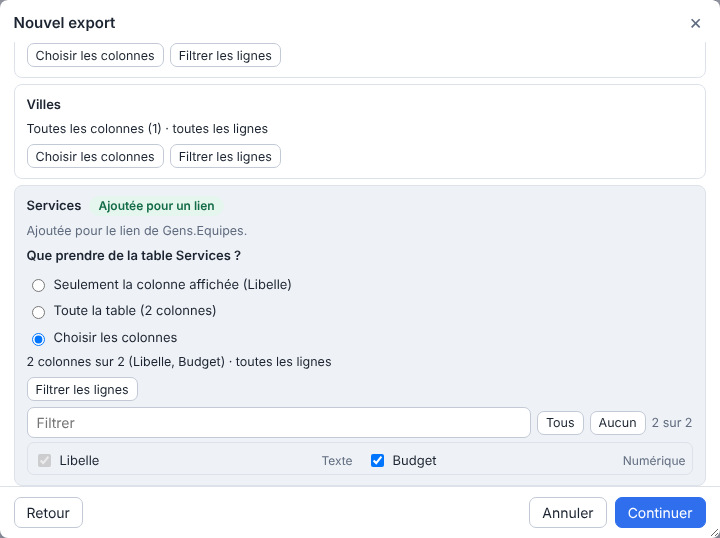
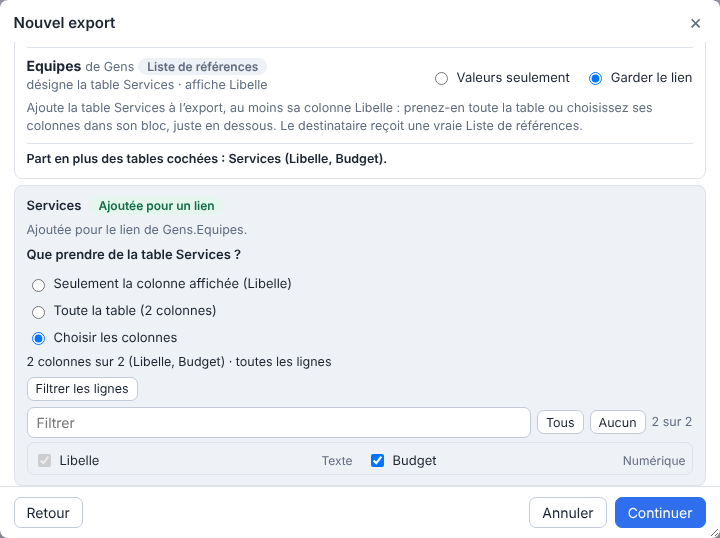
V0.29.1 : « Garder le lien » ouvre le panneau de la table ajoutée sous les références, libellé « futures colonnes »
Étape Colonnes de l'assistant d'export : le bloc « Références entre tables » vient maintenant avant les blocs « Ajoutée pour un lien »,
donc le panneau qui s'ouvre en choisissant « Garder le lien » apparaît sous la ligne cliquée et non au-dessus. Le texte de la note
dit « juste en dessous ». La case « Envoyer aussi les futures colonnes que j'ajouterai à ces tables » change de libellé (fr, en, docs/04).
Captures 29 et 29b refaites. Moteur inchangé (5.0.0).

Claude-Session: https://claude.ai/code/session_01TbSoW2GtQvMaUgQGCoyAc1

diff --git a/js/source/export-wizard.js b/js/source/export-wizard.js
@@ -221,7 +221,8 @@ function refRow(ctx, offer, onPick) {
 
 // Colonnes Référence et Liste de références (voir links.js) : pour chacune, n'envoyer que le texte affiché ou garder le lien (la table
 // visée s'ajoute alors à l'export : sa colonne affichée seule, toute la table ou des colonnes au choix). Hors Échange, où les colonnes vont dans les deux sens par leur
-// nom. `onTables` reçoit les tables de l'export à chaque changement. Rend les nœuds (tables ajoutées, puis bloc des choix).
+// nom. `onTables` reçoit les tables de l'export à chaque changement. Rend les nœuds : le bloc des choix, puis dessous les tables ajoutées
+// (le choix « Garder le lien » ouvre son panneau sous la ligne qu'on vient de cliquer, pas au-dessus).
 function linkSection(ctx, schema, onTables) {
   if (ctx.exp?.echange) return null;
   const pulledSlot = el('div', { class: 'form' });
@@ -254,7 +255,7 @@ function linkSection(ctx, schema, onTables) {
   }
   ctx.refresh = refresh;
   refresh();
-  return [pulledSlot, refsSlot];
+  return [refsSlot, pulledSlot];
 }
 
 // Case « Envoyer aussi les colonnes que j'ajouterai » (voir new-columns.js) : décochée d'emblée, telle que l'export l'est pour un export

diff --git a/js/config.js b/js/config.js
@@ -16,4 +16,4 @@ export const widgetUrl = () => (servedAt() === BETA_URL ? BETA_URL : WIDGET_URL)
 // D'où cette copie est servie, pour le diagnostic.
 export const servedFrom = () => ({ [BETA_URL]: 'bêta', [WIDGET_URL]: 'officielle' }[servedAt()] || servedAt());
 
-export const VERSION = '0.29.0';
+export const VERSION = '0.29.1';

diff --git a/CLAUDE.md b/CLAUDE.md
@@ -375,7 +375,18 @@ catalogue), syncPlus seul se comporte comme avant, tout est dans `js/engine/` (m
   `engine-fake.mjs`, préfixe `Gfs_`) ; les autres essais n'ont changé que leurs chemins d'import (`js/logic` devient
   `js/engine/logic`), l'e2e que les chemins des fichiers servis.
 
-## État : V0.29.0 (13 novembre 2026)
+## État : V0.29.1 (16 novembre 2026)
+
+V0.29.1 (Antoine, 16 novembre, en préparant un export avec une colonne Référence : « si on fait "garder le lien" ça ouvre la fenêtre au dessus, c'est étrange, au dessous ça serait mieux » ; puis « "Envoyer aussi les
+colonnes que j'ajouterai à ces tables" -> "Envoyer aussi les futures colonnes que j'ajouterai à ces tables" »). **Moteur inchangé (5.0.0)**, écran et textes seulement.
+- **Ordre de l'étape Colonnes** : `linkSection` (`js/source/export-wizard.js`) rend maintenant `[refsSlot, pulledSlot]` : le bloc « Références entre tables » d'abord, puis dessous, les blocs « Ajoutée pour un lien »
+  (avant : l'inverse, donc le panneau qui s'ouvrait en choisissant « Garder le lien » apparaissait au-dessus de la ligne cliquée). Le texte `send.refs.note.pull` disait « dans son bloc, plus haut » : il dit « juste en dessous ».
+- **Libellé** `send.autoCols` (fr et en) : « futures colonnes » ; `docs/04` suit. Les essais qui cherchent la case (`/colonnes que j.ajouterai|columns I add/`) matchent toujours.
+- Captures refaites : `docs/images/29-source-liens`, `29b-source-liens-tables-ajoutees` (et leurs vignettes README). **Le forum (`/mnt/project-files/forum/images/04b`, `04`) n'est pas refait** (il ne se publie qu'avec la Bêta : on le refait avec le lot) et **`03-source-colonnes` montre encore l'ancien libellé de la case** :
+  elle se refera avec le prochain parcours complet `CAPTURES=1`, ou avec la refonte de l'étape si Antoine en choisit une (critique et trois maquettes : `/mnt/project-files/notes/maquettes-colonnes/`).
+- Testé : unit 524 ; e2e `ONLY_LINKS=1` vert (aucun test n'attendait l'ordre des blocs : tous passent par `.table-added`).
+
+## État précédent : V0.29.0 (13 novembre 2026)
 
 V0.29.0 (Antoine, 13 novembre : « peux-tu faire une passe sur toutes les textes de chaque modale ? […] un ton plus adapté à un user français courant qui ne connaît pas le widget […] et peut-être une petite
 audit UI, pour que les informations qui expliquent les options soient en info bulle ou autre ? car l'interface reste très verbeuse » ; puis « quand on est dans la modale de modification du partage côté source

diff --git a/docs/04-tutoriel.md b/docs/04-tutoriel.md
@@ -296,7 +296,7 @@ toute seule. La carte de l'export le dit (« N colonnes ne partent pas ») avec 
 les range (la carte n'en parle plus). Une colonne renommée ou d'un autre type est dite par son nom
 (« la colonne « Ville » n'existe plus ; « Commune » est du même type, elle a sans doute été
 renommée ») : **Modifier** remet l'export d'accord. À l'étape Colonnes, la case « Envoyer aussi les
-colonnes que j'ajouterai à ces tables » (décochée d'emblée) les envoie seules quand un propriétaire
+futures colonnes que j'ajouterai à ces tables » (décochée d'emblée) les envoie seules quand un propriétaire
 ouvre la page du widget.
 
 ![Colonnes ajoutées à une table de l'export, qui ne partent pas](images/39-source-colonnes-ajoutees.png)
